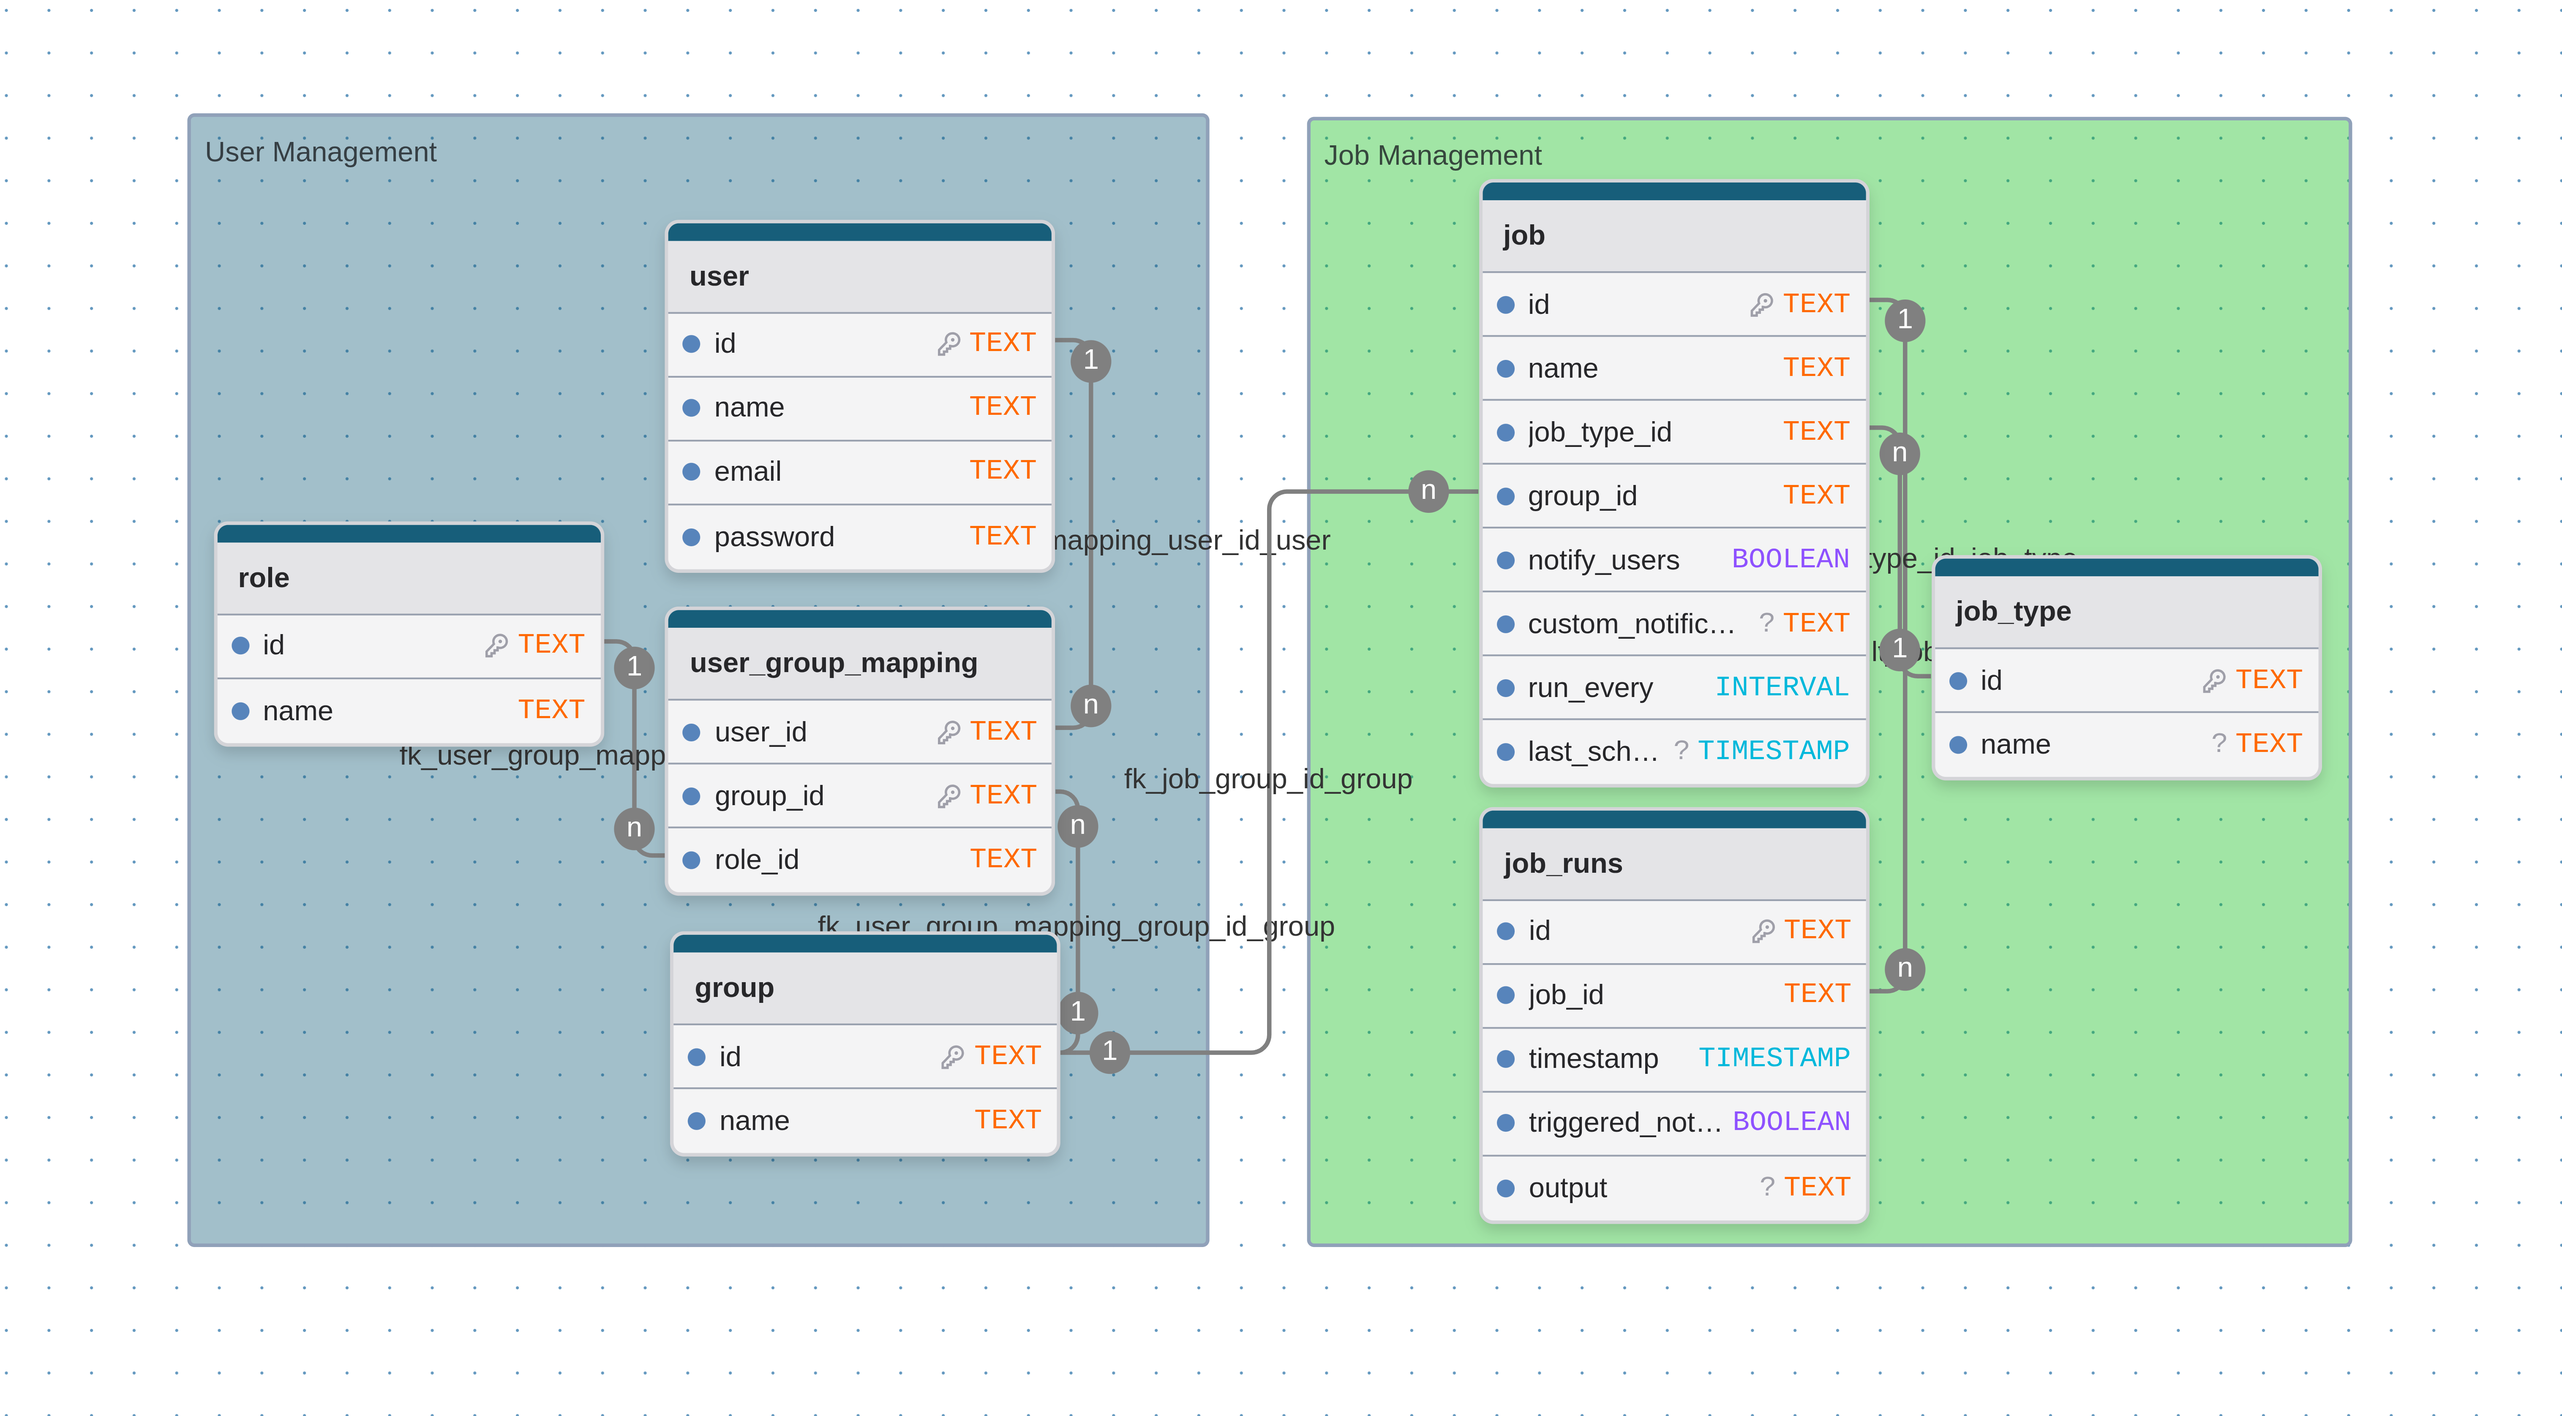
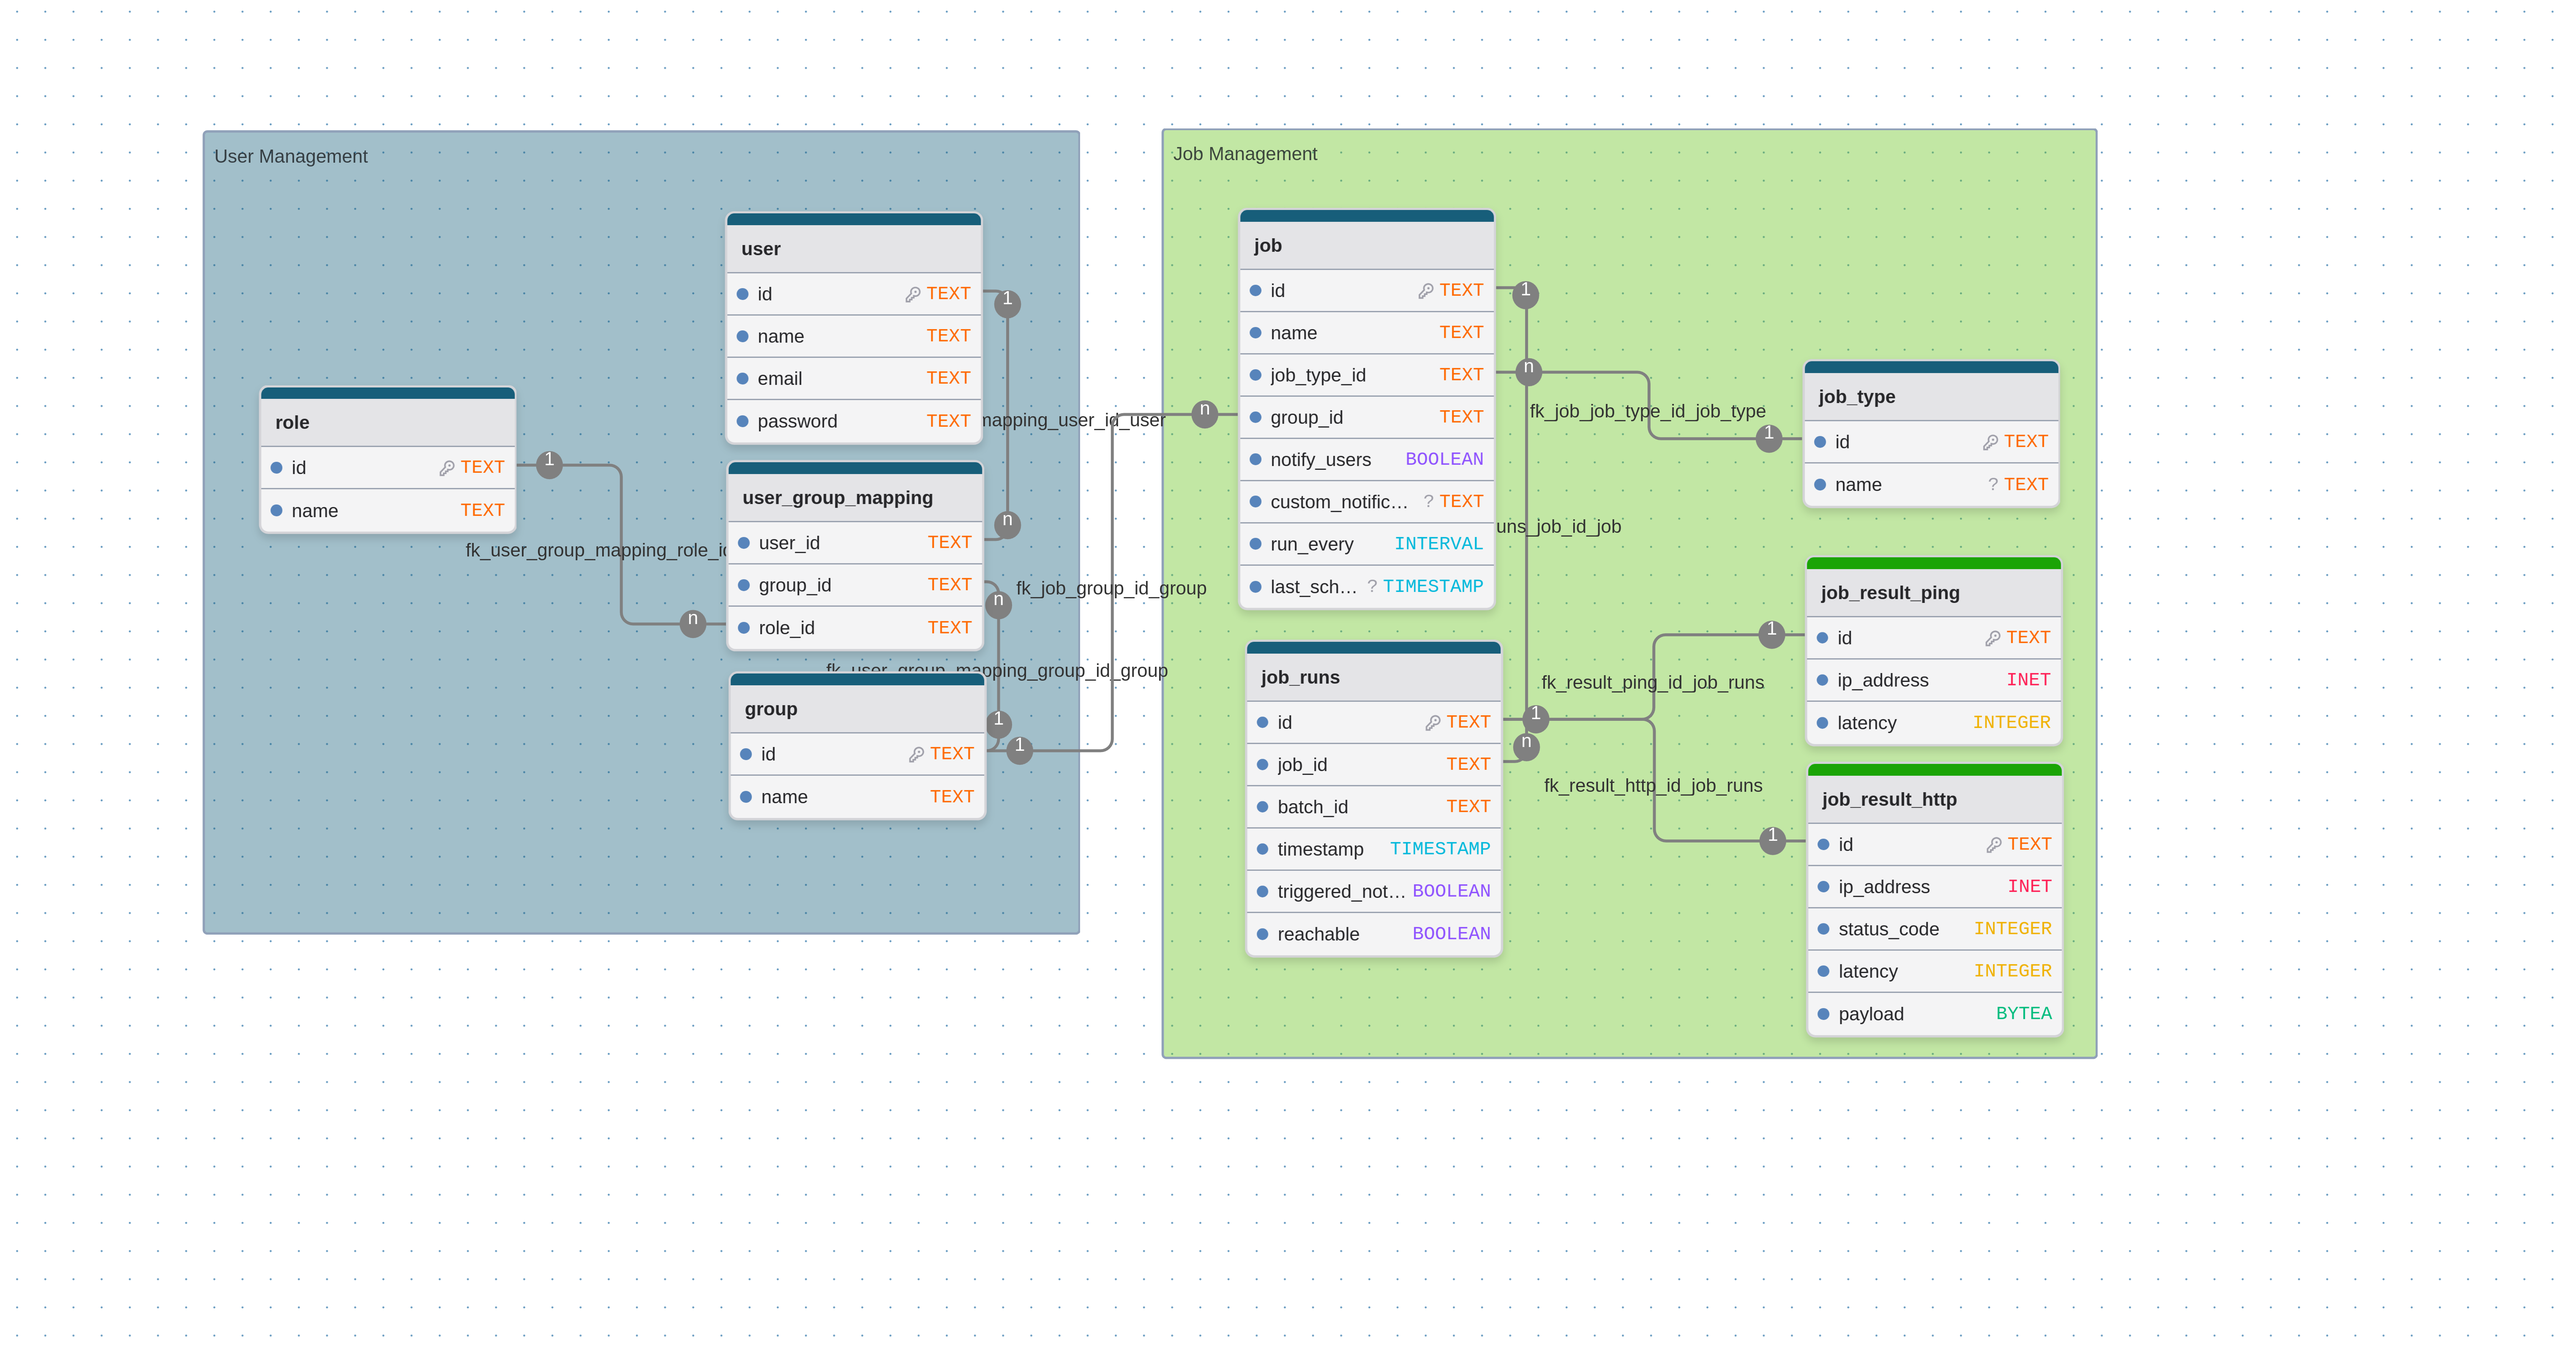
feat(db-client): add job result tables (#54)
* feat(db-client): add job_result_* tables and reachable column

* chore: update db design

* chore: update diesel models

* fix(db-client): resolve requested changes

diff --git a/database/database-client/src/schema.rs b/database/database-client/src/schema.rs
@@ -21,13 +21,31 @@ diesel::table! {
 }
 
 diesel::table! {
+    job_result_http (id) {
+        id -> Text,
+        ip_address -> Inet,
+        status_code -> Int4,
+        latency -> Int4,
+        payload -> Bytea,
+    }
+}
+
+diesel::table! {
+    job_result_ping (id) {
+        id -> Text,
+        ip_address -> Inet,
+        latency -> Int4,
+    }
+}
+
+diesel::table! {
     job_runs (id) {
         id -> Text,
         job_id -> Text,
         timestamp -> Timestamp,
         triggered_notification -> Bool,
-        output -> Nullable<Text>,
         batch_id -> Text,
+        reachable -> Bool,
     }
 }
 
@@ -62,16 +80,14 @@ diesel::table! {
     }
 }
 
-diesel::joinable!(job -> group (group_id));
-diesel::joinable!(job -> job_type (job_type_id));
-diesel::joinable!(job_runs -> job (job_id));
-diesel::joinable!(user_group_mapping -> group (group_id));
-diesel::joinable!(user_group_mapping -> role (role_id));
-diesel::joinable!(user_group_mapping -> user (user_id));
+diesel::joinable!(job_result_http -> job_runs (id));
+diesel::joinable!(job_result_ping -> job_runs (id));
 
 diesel::allow_tables_to_appear_in_same_query!(
     group,
     job,
+    job_result_http,
+    job_result_ping,
     job_runs,
     job_type,
     role,

diff --git a/database/database-client/src/models.rs b/database/database-client/src/models.rs
@@ -5,6 +5,7 @@
 
 use chrono::NaiveDateTime;
 use diesel::{data_types::PgInterval, prelude::*};
+use ipnet::IpNet;
 
 use crate::schema::*;
 #[derive(Queryable, Debug, Identifiable, Insertable)]
@@ -28,14 +29,32 @@ pub struct Job {
 }
 
 #[derive(Queryable, Debug, Identifiable, Insertable)]
+#[diesel(table_name = job_result_http)]
+pub struct JobResultHttp {
+    pub id: String,
+    pub ip_address: IpNet,
+    pub status_code: i32,
+    pub latency: i32,
+    pub payload: Vec<u8>,
+}
+
+#[derive(Queryable, Debug, Identifiable, Insertable)]
+#[diesel(table_name = job_result_ping)]
+pub struct JobResultPing {
+    pub id: String,
+    pub ip_address: IpNet,
+    pub latency: i32,
+}
+
+#[derive(Queryable, Debug, Identifiable, Insertable)]
 #[diesel(table_name = job_runs)]
 pub struct JobRun {
     pub id: String,
     pub job_id: String,
     pub timestamp: NaiveDateTime,
     pub triggered_notification: bool,
-    pub output: Option<String>,
     pub batch_id: String,
+    pub reachable: bool,
 }
 
 #[derive(Queryable, Debug, Identifiable, Insertable)]
